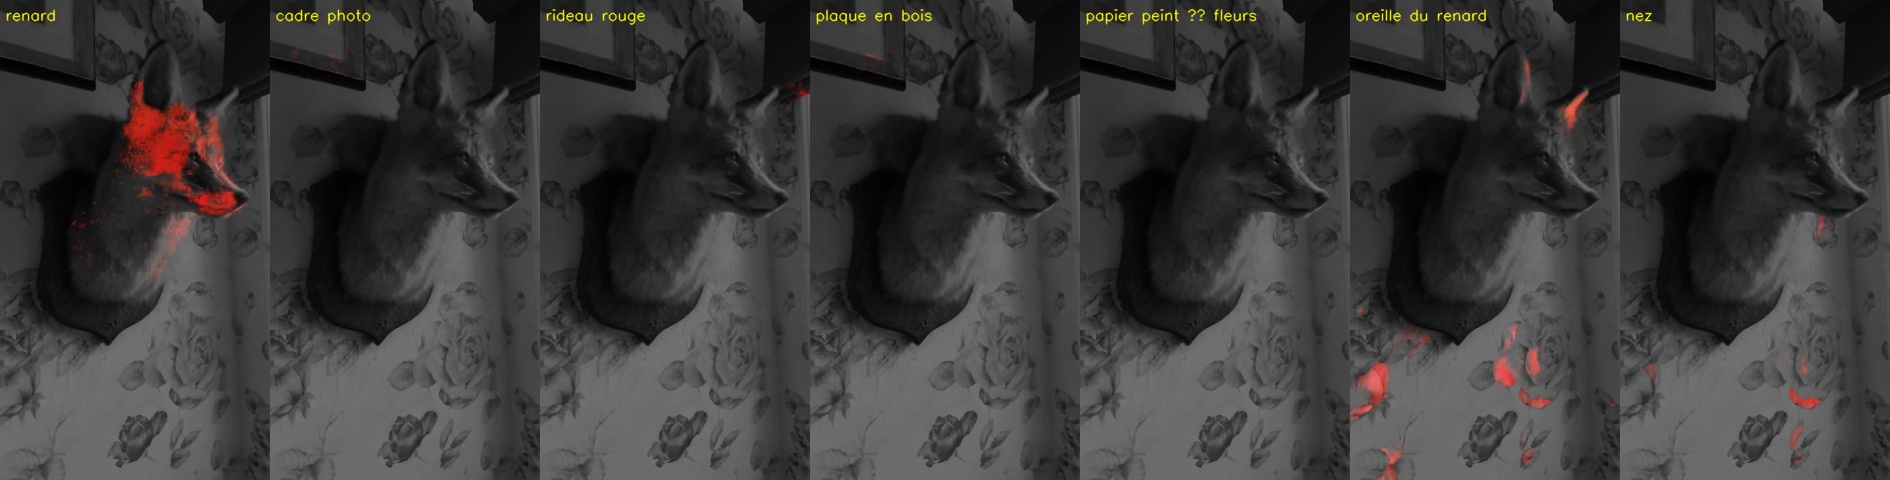
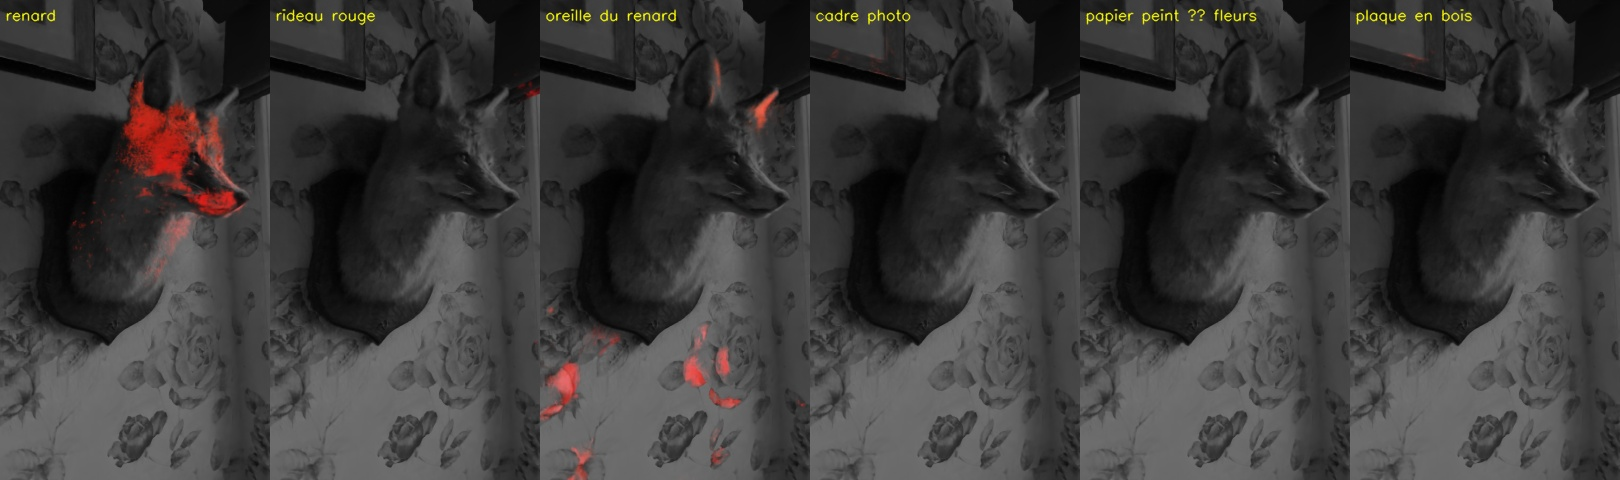
Démo GIF, choix du niveau et option « objet entier »
- Commande `demo` : GIF le long de la trajectoire filmée (caméras
  interpolées), scène puis requête surlignée.
- Niveau de masques forçable (auto / small / large) dans le viewer
  et via `query --level`.
- Ensemble de prompts en option (« objet entier ») : aide les objets
  (« rideau rouge » 168 → 1080 gaussiennes) mais noie les parties, donc
  désactivé par défaut.
- README : GIF, tableau des essais et de leurs résultats, options.
- TODO : étape frames testée, essais retenus et écartés.

diff --git a/lang3d/query.py b/lang3d/query.py
@@ -16,6 +16,11 @@ from .gaussians import export_ply, load_splats, rgb_to_sh, sh_to_rgb
 
 NEGATIVES = ["object", "things", "stuff", "texture"]
 TEMPERATURE = 10.0
+# Texte brut par défaut (comme LERF). L'ensemble de prompts façon CLIP, testé sur
+# fox, aide les objets entiers (« rideau rouge » : 168 → 1080 gaussiennes) mais
+# noie les parties (« oreille du renard » finit par surligner tout le renard).
+TEMPLATES = ["{}"]
+OBJECT_TEMPLATES = ["{}", "une photo de {}", "a photo of {}"]
 
 _FILLERS = re.compile(
     r"^(où\s+(est|sont|se\s+trouvent?|se\s+situent?)|montre[-\s]?moi|trouve[-\s]?moi|cherche|"
@@ -40,24 +45,36 @@ class SceneQuery:
         self.feats = {lvl: f.float().to(device) for lvl, f in d["feats"].items()}
         self.valid = {lvl: v.to(device) for lvl, v in d["valid"].items()}
         self.enc = Encoder(tuple(d["model"]), device)
-        self.neg = self.enc.encode_text(NEGATIVES) @ self.P
+        self.neg = {
+            False: self.embed(NEGATIVES, TEMPLATES),
+            True: self.embed(NEGATIVES, OBJECT_TEMPLATES),
+        }
 
-    def relevancy(self, text: str) -> tuple[torch.Tensor, str]:
-        """Pertinence par gaussienne, au niveau de masques le plus pertinent (comme LangSplat)."""
-        q = self.enc.encode_text([clean_query(text)]) @ self.P
+    def embed(self, texts: list[str], templates: list[str]) -> torch.Tensor:
+        """Embedding moyen sur les templates, projeté dans la base SVD → (len(texts), dim)."""
+        prompts = [t.format(x) for x in texts for t in templates]
+        emb = self.enc.encode_text(prompts).view(len(texts), len(templates), -1).mean(1)
+        return torch.nn.functional.normalize(emb, dim=-1) @ self.P
+
+    def relevancy(self, text: str, level: str | None = None, ensemble: bool = False) -> tuple[torch.Tensor, str]:
+        """Pertinence par gaussienne, au niveau imposé ou, par défaut, au niveau de masques
+        le plus pertinent (comme LangSplat). `ensemble` active OBJECT_TEMPLATES."""
+        q = self.embed([clean_query(text)], OBJECT_TEMPLATES if ensemble else TEMPLATES)
+        negs = self.neg[ensemble]
         best = None
-        for lvl, feats in self.feats.items():
+        for lvl in [level] if level else self.feats:
+            feats = self.feats[lvl]
             pos = feats @ q.T          # (N, 1)
-            neg = feats @ self.neg.T   # (N, len(NEGATIVES))
+            neg = feats @ negs.T       # (N, len(NEGATIVES))
             rel = torch.sigmoid(TEMPERATURE * (pos - neg)).min(dim=1).values
             rel[~self.valid[lvl]] = 0
             if best is None or rel.max() > best[0].max():
                 best = (rel, lvl)
         return best
 
-    def scores(self, text: str) -> tuple[torch.Tensor, str]:
+    def scores(self, text: str, level: str | None = None, ensemble: bool = False) -> tuple[torch.Tensor, str]:
         """Pertinence renormalisée dans [0, 1] : 0 = pas mieux qu'un négatif, 1 = meilleure gaussienne."""
-        rel, lvl = self.relevancy(text)
+        rel, lvl = self.relevancy(text, level, ensemble)
         return ((rel - 0.5) / (rel.max() - 0.5).clamp_min(1e-6)).clamp(0, 1), lvl
 
 
@@ -71,9 +88,10 @@ def highlight(rgb: torch.Tensor, scores: torch.Tensor, threshold: float):
     return colors, hit
 
 
-def export_query(scene_dir: Path, text: str, threshold: float = 0.5, out: Path | None = None):
+def export_query(scene_dir: Path, text: str, threshold: float = 0.5, out: Path | None = None,
+                 level: str | None = None, ensemble: bool = False):
     splats, _, _ = load_splats(scene_dir / "gs" / "splats.pt")
-    scores, level = SceneQuery(scene_dir).scores(text)
+    scores, level = SceneQuery(scene_dir).scores(text, level, ensemble)
     colors, hit = highlight(sh_to_rgb(splats["sh0"][:, 0]), scores, threshold)
     # Sans les harmoniques d'ordre supérieur, la couleur ne dépend plus de l'angle : la surbrillance reste visible.
     flat = dict(splats, shN=torch.zeros_like(splats["shN"]))

diff --git a/lang3d/demo.py b/lang3d/demo.py
@@ -1,0 +1,78 @@
+"""GIF de démo : la caméra suit la trajectoire filmée ; la première moitié montre
+la scène, la seconde la requête surlignée."""
+from pathlib import Path
+
+import cv2
+import numpy as np
+import torch
+from PIL import Image, ImageDraw
+
+from .gaussians import load_splats, render, sh_to_rgb
+from .query import SceneQuery, clean_query, highlight
+from .scene import load_scene
+
+
+def _rot_to_quat(R: np.ndarray) -> np.ndarray:
+    w = np.sqrt(max(1e-12, 1 + R[0, 0] + R[1, 1] + R[2, 2])) / 2
+    return np.array([w, (R[2, 1] - R[1, 2]) / (4 * w), (R[0, 2] - R[2, 0]) / (4 * w), (R[1, 0] - R[0, 1]) / (4 * w)])
+
+
+def _quat_to_rot(q: np.ndarray) -> np.ndarray:
+    w, x, y, z = q / np.linalg.norm(q)
+    return np.array([
+        [1 - 2 * (y * y + z * z), 2 * (x * y - w * z), 2 * (x * z + w * y)],
+        [2 * (x * y + w * z), 1 - 2 * (x * x + z * z), 2 * (y * z - w * x)],
+        [2 * (x * z - w * y), 2 * (y * z + w * x), 1 - 2 * (x * x + y * y)],
+    ])
+
+
+def _trajectory(frames, steps_between: int) -> list[np.ndarray]:
+    """Interpolation entre caméras successives : centre linéaire, rotation par nlerp."""
+    views = []
+    for a, b in zip(frames[:-1], frames[1:]):
+        qa, qb = _rot_to_quat(a.viewmat[:3, :3].T), _rot_to_quat(b.viewmat[:3, :3].T)
+        if qa @ qb < 0:
+            qb = -qb
+        for t in np.linspace(0, 1, steps_between, endpoint=False):
+            R_wc = _quat_to_rot((1 - t) * qa + t * qb)  # rotation caméra → monde
+            c = (1 - t) * a.cam_center + t * b.cam_center
+            V = np.eye(4)
+            V[:3, :3] = R_wc.T
+            V[:3, 3] = -R_wc.T @ c
+            views.append(V)
+    return views
+
+
+def make_demo(scene_dir: Path, text: str, out: Path, max_side: int = 320, steps_between: int = 2,
+              threshold: float = 0.5, device: str = "cuda"):
+    splats, sh_degree, _ = load_splats(scene_dir / "gs" / "splats.pt", device)
+    frames, _, _ = load_scene(scene_dir)
+    scores, _ = SceneQuery(scene_dir, device).scores(text)
+    colors, _ = highlight(sh_to_rgb(splats["sh0"][:, 0]), scores, threshold)
+
+    s = max_side / max(frames[0].width, frames[0].height)
+    w, h = round(frames[0].width * s), round(frames[0].height * s)
+    K = torch.from_numpy(frames[0].K).float().to(device)
+    K[0] *= w / frames[0].width
+    K[1] *= h / frames[0].height
+
+    views = _trajectory(frames, steps_between)
+    images = []
+    for i, V in enumerate(views):
+        hl = i >= len(views) // 2
+        with torch.no_grad():
+            r, _, _ = render(splats, torch.from_numpy(V).float().to(device), K, w, h,
+                             colors=colors if hl else None, sh_degree=sh_degree)
+        img = (r[0].clamp(0, 1).cpu().numpy() * 255).astype(np.uint8)
+        if hl:
+            label = f"« {clean_query(text)} »"
+            img = cv2.rectangle(img.copy(), (0, 0), (w, 26), (0, 0, 0), -1)
+            # OpenCV ne gère pas les accents : on passe par PIL pour le texte.
+            pil = Image.fromarray(img)
+            ImageDraw.Draw(pil).text((8, 6), label, fill=(255, 220, 0))
+            img = np.asarray(pil)
+        images.append(Image.fromarray(img))
+
+    out.parent.mkdir(parents=True, exist_ok=True)
+    images[0].save(out, save_all=True, append_images=images[1:], duration=60, loop=0, optimize=True)
+    print(f"GIF de {len(images)} images ({w}x{h}) → {out} ({out.stat().st_size / 1e6:.1f} Mo)")

diff --git a/lang3d/viewer.py b/lang3d/viewer.py
@@ -57,6 +57,13 @@ def run_viewer(scene_dir: Path, port: int = 8080, device: str = "cuda"):
 
     server.gui.add_markdown("### Scène 3D interrogeable\nTape un objet, en français ou en anglais.")
     text = server.gui.add_text("Requête", "Où est le renard ?")
+    level = server.gui.add_dropdown(
+        "Niveau", ("auto", "small", "large"), initial_value="auto",
+        hint="small = parties d'objets (oreille), large = objets entiers (renard)",
+    )
+    ensemble = server.gui.add_checkbox(
+        "Objet entier", False, hint="Moyenne « {} » / « une photo de {} » : mieux pour les objets, moins bien pour les parties",
+    )
     search = server.gui.add_button("Chercher")
     threshold = server.gui.add_slider("Seuil", 0.0, 1.0, 0.01, 0.5)
     isolate = server.gui.add_checkbox("Isoler", False)
@@ -77,7 +84,9 @@ def run_viewer(scene_dir: Path, port: int = 8080, device: str = "cuda"):
     @search.on_click
     def _(_):
         t0 = time.time()
-        scores, state["level"] = query.scores(text.value)
+        scores, state["level"] = query.scores(
+            text.value, None if level.value == "auto" else level.value, ensemble.value
+        )
         state["scores"] = scores[keep]
         refresh()
         status.content += (

diff --git a/lang3d/__main__.py b/lang3d/__main__.py
@@ -53,6 +53,15 @@ def main():
     s.add_argument("text")
     s.add_argument("--threshold", type=float, default=0.5)
     s.add_argument("--out", type=Path, default=None)
+    s.add_argument("--level", choices=["small", "large"], default=None,
+                   help="niveau de masques (défaut : le plus pertinent)")
+    s.add_argument("--objet-entier", action="store_true",
+                   help="ensemble de prompts : mieux pour les objets, moins bien pour les parties")
+
+    s = sub.add_parser("demo", help="GIF de démo le long de la trajectoire filmée")
+    s.add_argument("scene", type=Path)
+    s.add_argument("text")
+    s.add_argument("--out", type=Path, default=Path("docs/demo.gif"))
 
     a = p.parse_args()
     if a.cmd == "frames":
@@ -75,7 +84,10 @@ def main():
         run_viewer(a.scene, a.port)
     elif a.cmd == "query":
         from .query import export_query
-        export_query(a.scene, a.text, a.threshold, a.out)
+        export_query(a.scene, a.text, a.threshold, a.out, a.level, a.objet_entier)
+    elif a.cmd == "demo":
+        from .demo import make_demo
+        make_demo(a.scene, a.text, a.out)
 
 
 if __name__ == "__main__":

diff --git a/README.md b/README.md
@@ -9,6 +9,8 @@ Approche inspirée de [LERF](https://www.lerf.io/) et
 [LangSplat](https://langsplat.github.io/), adaptée pour tourner sur un GPU
 grand public (RTX 2070, 8 Go).
 
+![Démo : « Où est le renard ? »](docs/demo.gif)
+
 ![Viewer : « Où est le renard ? »](docs/viewer_renard.jpg)
 
 ## Résultats sur la scène « fox » (instant-ngp, 50 photos)
@@ -29,8 +31,21 @@ Requêtes en français (gaussiennes au-dessus du seuil en rouge) :
 
 ![Requêtes](docs/requetes_fox.jpg)
 
-- ✅ « renard », « rideau rouge », « oreille du renard » (pointes des oreilles), « cadre photo » (en bord de vue)
+- ✅ « renard », « oreille du renard » (pointes des oreilles), « cadre photo » (en bord de vue)
+- ✅ « rideau rouge » avec l'option *objet entier* (1080 gaussiennes, tout le rideau ; 168 sans)
 - ❌ « papier peint à fleurs », « plaque en bois » : seuls quelques fragments ressortent (voir limites)
+
+## Ce qui a été essayé
+
+Chaque idée a été mesurée sur fox (nombre de gaussiennes surlignées + vérification visuelle) avant d'être gardée.
+
+| Essai | Résultat | Décision |
+|---|---|---|
+| Un seul niveau (plus petit masque SAM par pixel) | Parties d'objets OK, mais les grands objets sont morcelés | → deux niveaux |
+| Deux niveaux `small` / `large` (comme LangSplat), meilleur niveau choisi par requête | « cadre photo » et « rideau rouge » passent au niveau `large` | ✅ gardé, niveau forçable dans le viewer |
+| Zones non couvertes par SAM ajoutées comme masques | Le fond (29 % de l'image) a enfin une feature | ✅ gardé |
+| Fond encodé par des carrés intérieurs plutôt qu'un crop troué | Aucun gain : le score reste au niveau du négatif « texture » | ❌ retiré |
+| Ensemble de prompts (« {} », « une photo de {} », « a photo of {} ») | Objets : « rideau rouge » 168 → 1080. Parties : « oreille du renard » surligne tout le renard | ⚖ option *objet entier*, désactivée par défaut |
 
 ## Pipeline
 
@@ -51,6 +66,7 @@ vidéo ──► frames ──► VGGT ──► Gaussian Splatting ──┐
 | 4. `features` | [features.py](lang3d/features.py) | **SAM** découpe chaque image en masques (+ les zones non couvertes) ; chaque masque est encodé par **SigLIP 2** (multilingue). Deux niveaux : plus petit masque par pixel (parties) et plus grand (objets entiers). |
 | 5. `lift` | [lift.py](lang3d/lift.py) | Report des embeddings sur les gaussiennes **sans entraînement** (voir ci-dessous). |
 | 6. `view` / `query` | [viewer.py](lang3d/viewer.py), [query.py](lang3d/query.py) | Score de pertinence façon LERF, surbrillance dans un viewer web (viser) ou export `.ply`. |
+| 7. `demo` | [demo.py](lang3d/demo.py) | GIF le long de la trajectoire filmée (caméras interpolées), scène puis requête surlignée. |
 
 ## Les idées clés
 
@@ -96,7 +112,13 @@ python -m lang3d features scenes/salon
 python -m lang3d lift     scenes/salon
 python -m lang3d view     scenes/salon        # → http://localhost:8080
 python -m lang3d query    scenes/salon "où est la chaise rouge ?"   # export .ply
+python -m lang3d demo     scenes/salon "où est la chaise rouge ?"   # → docs/demo.gif
 ```
+
+Options de requête (viewer et `query`) :
+- **Niveau** (`--level small|large`) : `small` pour une partie d'objet (« oreille »), `large` pour un objet entier ; par défaut, le plus pertinent.
+- **Objet entier** (`--objet-entier`) : ensemble de prompts, mieux pour les objets, moins bien pour les parties.
+- **Seuil** et **Isoler** (viewer) : régler la sélection et masquer le reste de la scène.
 
 Pour un dossier d'images existant, mettre les images dans `scenes/<nom>/images/`
 et commencer à l'étape `poses`.
@@ -107,7 +129,7 @@ le flou, les reflets et les zones très sombres.
 ## Limites connues
 
 - VGGT tient environ 40 à 50 images sur 8 Go de VRAM : moins de vues que COLMAP, donc un splatting moins net hors des points de vue filmés.
-- Grands fonds texturés (papier peint, sol) : SAM ne les segmente pas d'un bloc. Les zones non couvertes sont ajoutées comme masques, mais ces crops troués ne ressemblent pas à « du papier peint » pour SigLIP.
+- Grands fonds texturés (papier peint, sol) : SAM ne les segmente pas d'un bloc, et même une fois encodés, leur similarité avec « papier peint à fleurs » (~0,07–0,10) ne dépasse pas celle du négatif « texture » (~0,09). Le score LERF les neutralise donc par construction.
 - Objets en grande partie cachés (la plaque derrière la tête du renard) : leurs crops sont trop petits pour être reconnus.
 - Requêtes très courtes et sans contexte (« les oreilles ») : moins fiables que « oreille du renard ».
 - COLMAP n'est pas utilisable ici : Smart App Control (Windows) bloque la DLL non signée de pycolmap.

diff --git a/TODO.md b/TODO.md
@@ -12,8 +12,9 @@ Légende : `[x]` fait · `[~]` en cours · `[ ]` à faire
 - [x] Forcer l'UTF-8 dans la console Windows (accents et flèches dans les logs)
 
 ## Phase 1 — Vidéo → images
-- [~] Extraction des frames (OpenCV), une par fenêtre temporelle — code écrit, à tester sur une vraie vidéo
-- [~] Garder la frame la plus nette de chaque fenêtre (variance du Laplacien) — code écrit, à tester
+- [x] Extraction des frames (OpenCV), une par fenêtre temporelle — testé sur une vidéo synthétique (300 frames → 50)
+- [x] Garder la frame la plus nette de chaque fenêtre (variance du Laplacien) — 50/50 frames nettes retrouvées parmi 5 copies floutées
+- [ ] Valider sur une vraie vidéo de téléphone (rotation, compression, flou de bougé réel)
 
 ## Phase 2 — Poses de caméra
 - [x] ~~COLMAP via pycolmap~~ → abandonné : Windows (Smart App Control) bloque la DLL non signée de pycolmap
@@ -45,16 +46,21 @@ Légende : `[x]` fait · `[~]` en cours · `[ ]` à faire
 - [x] Nettoyage des requêtes en français ("Où est la chaise rouge ?" → "chaise rouge") — testé
 - [x] Viewer web (viser) : champ texte, seuil, surbrillance en rouge, mode "isoler" — testé dans le navigateur
 - [x] Export `.ply` avec surbrillance (`python -m lang3d query`) — testé (`scenes/fox/gs/query_renard.ply`)
+- [x] Choix du niveau de masques (auto / small / large) dans le viewer et `--level` en CLI
+- [x] Option « objet entier » (ensemble de prompts) dans le viewer et `--objet-entier` en CLI — testé dans le navigateur
 
 ## Phase 7 — Test et démo
 - [x] Test de bout en bout sur une scène publique (fox d'instant-ngp, 50 images)
 - [ ] Test sur une vidéo filmée au téléphone
-- [~] README avec explications, résultats et captures — fait ; GIF de démo à ajouter
+- [x] README avec explications, résultats, captures et tableau « ce qui a été essayé »
+- [x] GIF de démo (`python -m lang3d demo`) : trajectoire interpolée, 98 images, 3,8 Mo
 - [x] Repo GitHub public pour le CV : https://github.com/Wazoou/lang3d
 
 ## Pistes d'amélioration (à ajouter au fil de l'eau)
-- [ ] Fonds texturés (papier peint, sol) : encoder la zone non couverte sans trous (inpainting ou crop de la bounding box entière)
-- [ ] Requêtes courtes (« les oreilles ») : prompts multiples (« une photo de {} ») et moyenne des embeddings texte
+- [x] ~~Fonds texturés : carrés intérieurs au lieu du crop troué~~ → testé, aucun gain (le fond reste au niveau du négatif « texture »), retiré
+- [x] ~~Requêtes courtes : ensemble de prompts~~ → testé : aide les objets (« rideau rouge » 168 → 1080) mais noie les parties (« oreille du renard » → tout le renard) ; gardé en option
+- [ ] Fonds texturés, piste suivante : retirer « texture » des négatifs quand la requête désigne une surface (papier peint, sol, mur)
+- [ ] Requêtes courtes, piste suivante : compléter automatiquement le contexte de la scène (« oreilles » → « oreilles du renard ») avec l'objet le plus pertinent
 - [ ] Plus de 50 vues : VGGT par blocs qui se chevauchent + alignement Sim(3) entre blocs
 - [ ] Rendu de la carte de pertinence en 2D (heatmap) en plus de la surbrillance 3D
 - [ ] Évaluation quantitative (mIoU sur le dataset LERF / 3D-OVS)
